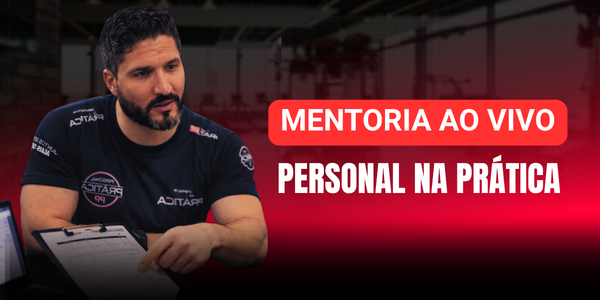
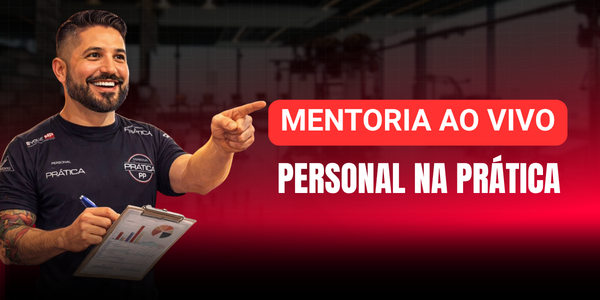
feat: update testimonial video and fix product link
- Replace YouTube testimonial with embedded Wistia player for better performance
- Update "Desafios de Treino Agora ou Nunca" link to direct website instead of payment page
- Add placeholder image and blur effect for Wistia player loading state

Changed region(s): [[0.0, 0.03, 0.45, 0.96], [0.45, 0.12, 0.48, 0.15]]

diff --git a/index.html b/index.html
@@ -139,7 +139,20 @@
         <h2>De Personal Esforçado a Personal Empresário</h2> 
         <p>Quem já transformou a sua carreira com o P.N.P.</p>
       </div>
+      <script src="https://fast.wistia.com/player.js" async></script>
+      <script src="https://fast.wistia.com/embed/yz7d5kjayj.js" async type="module"></script>
+      <style>
+        wistia-player[media-id='yz7d5kjayj']:not(:defined) {
+          background: center / contain no-repeat url('https://fast.wistia.com/embed/medias/yz7d5kjayj/swatch');
+          display: block;
+          filter: blur(5px);
+          padding-top: 56.25%;
+        }
+      </style>
       <div class="testimonial-videos">
+        <div class="testimonial-video animate-on-scroll" style="grid-column: 1 / -1;">
+          <wistia-player media-id="yz7d5kjayj" aspect="1.7777777777777777"></wistia-player>
+        </div>
         <div class="testimonial-video animate-on-scroll">
           <button class="video-poster" type="button" data-video-src="https://www.youtube-nocookie.com/embed/4pCMoSI0BlQ"
             data-video-title="Depoimento — Franciely Leão" aria-label="Reproduzir depoimento — Franciely Leão">

diff --git a/bio/index.html b/bio/index.html
@@ -166,7 +166,7 @@
     const linksData = [
       { url: "../", img: "1.png", alt: "Curso Online Personal na Prática" },
       { url: "../mentoria/", img: "2.png", alt: "Mentoria Ao Vivo" },
-      { url: "https://pay.hotmart.com/H105273549D?off=yjeuih0e&checkoutMode=10", img: "3.png", alt: "Desafios de Treino Agora ou Nunca" },
+      { url: "https://desafioagoraoununca.com.br/", img: "3.png", alt: "Desafios de Treino Agora ou Nunca" },
       { url: "https://www.youtube.com/rodrigoassipersonalnapratica", img: "4.png", alt: "Imagem Link 4" },
       { url: "https://api.whatsapp.com/send?1=pt_BR&phone=5511976563187&text=Faaaala,+Personal+na+Pr%C3%A1tica.+Eu+quero+entrar+na+lista+VIP.", img: "5.png", alt: "Imagem Link 5" }
     ];